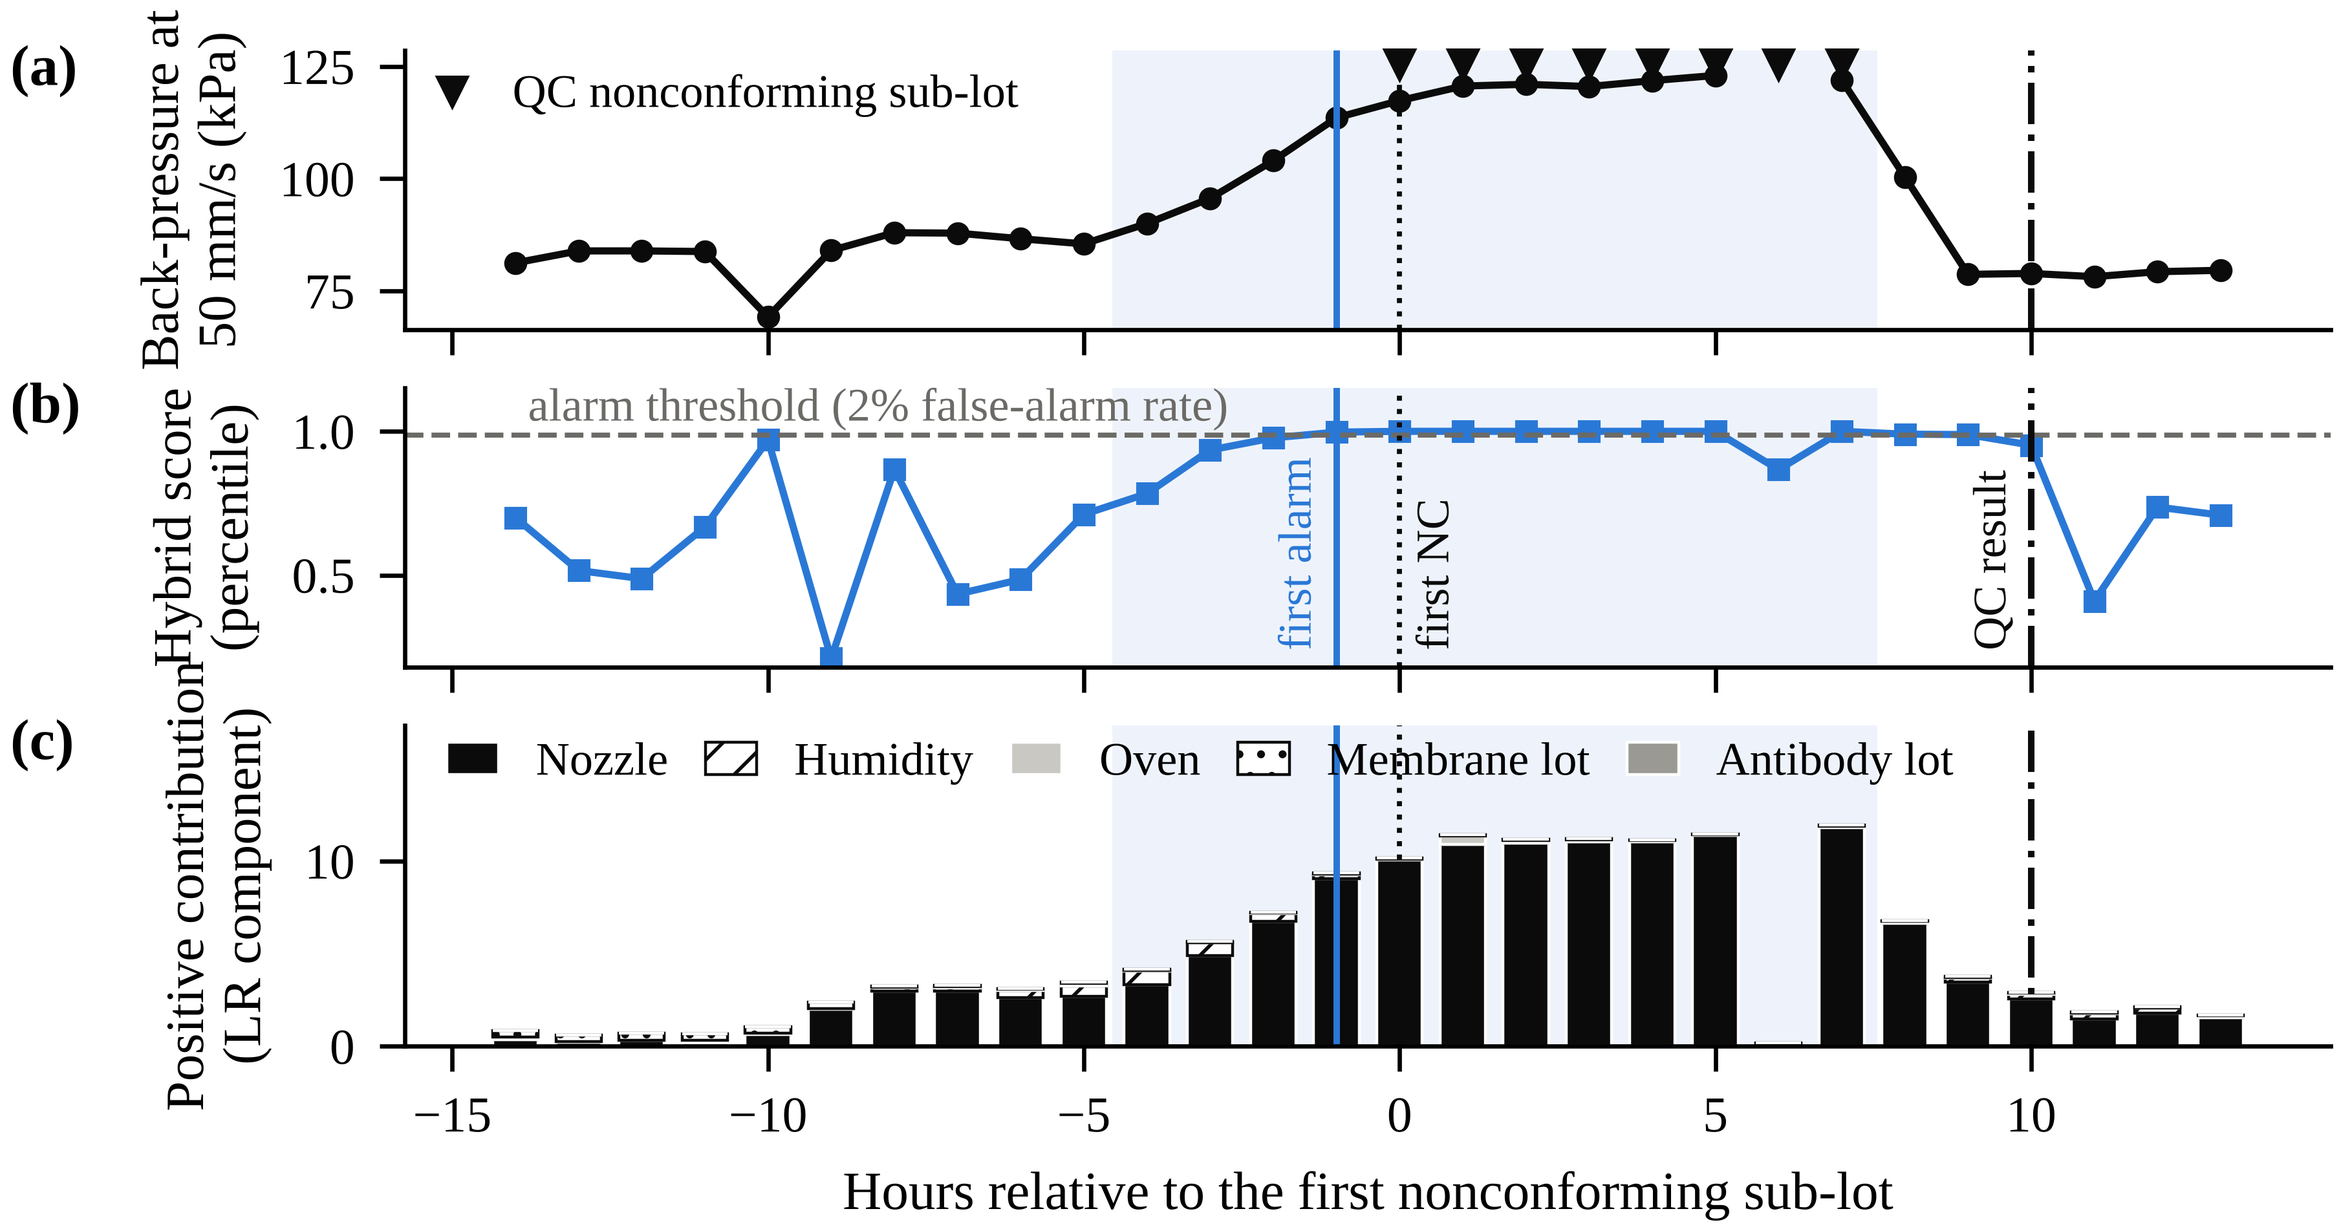
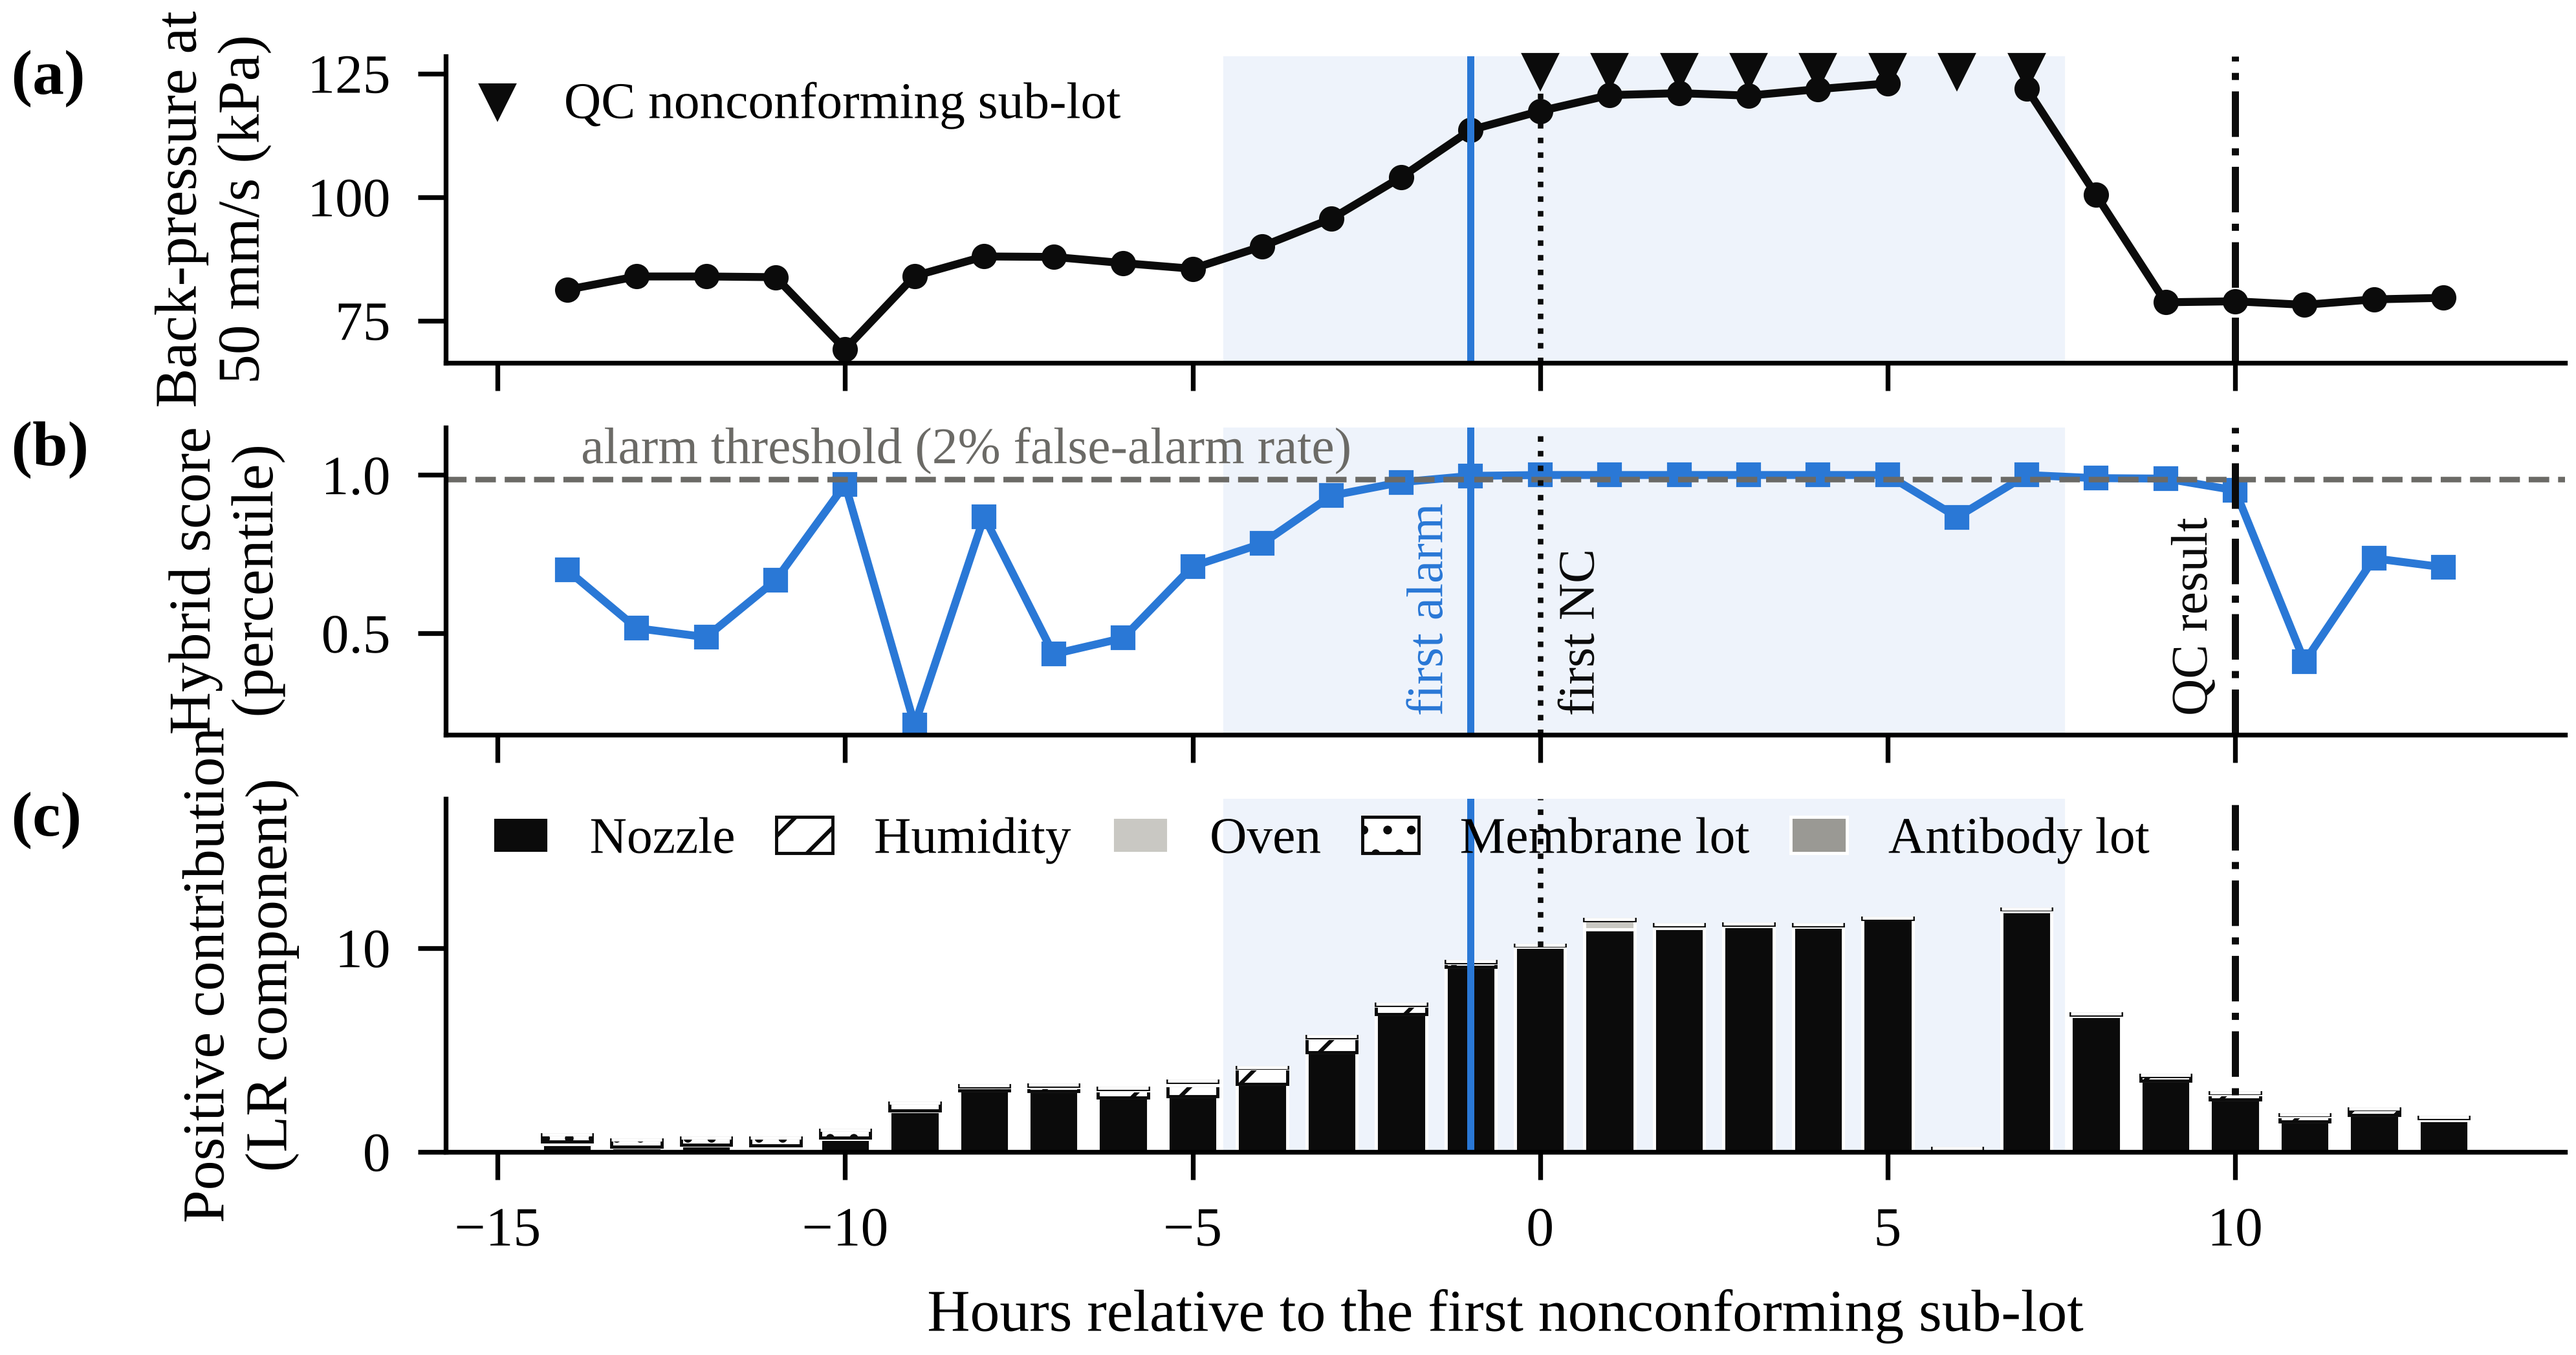
Re-export figures above 800 dpi at final print size

diff --git a/code/figures_r2.py b/code/figures_r2.py
@@ -26,7 +26,7 @@ COL = {"SPC": LGREY, "LR-snap": MGREY, "XGB-snap": MGREY, "SPC-DS": GREY, "CCS":
 
 
 def save(fig, name):
-    fig.savefig(OUT + name + ".png", dpi=800, bbox_inches="tight", pad_inches=0.02)
+    fig.savefig(OUT + name + ".png", dpi=880, bbox_inches="tight", pad_inches=0.02)
     fig.savefig(OUT + name + ".pdf", bbox_inches="tight", pad_inches=0.02)
     plt.close(fig)
 

diff --git a/README.md b/README.md
@@ -18,7 +18,7 @@ All data are generated by the simulator in this repository. It contains no manuf
 | `code/experiments_r2.py` | Comparators added after review (rule-based control and univariate SPC on the digital shadow), two chance levels, per-fault-type results, lot-clustering null, lot-block thresholds, and stress scenarios |
 | `code/analysis_r2.py` | Summary of the round-2 analyses and the confirmatory tests |
 | `code/analysis2.py` | Summary tables, Holm-corrected paired tests and the key numbers used in the paper |
-| `code/figures_r2.py` | Figures 1 to 4 as published (PNG at 800 dpi, and vector PDF) |
+| `code/figures_r2.py` | Figures 1 to 4 as published (PNG at 880 dpi, and vector PDF) |
 | `results/` | Outputs from the ten evaluation replications (seeds 10 to 19) |
 | `figures/` | Figures as published |
 
